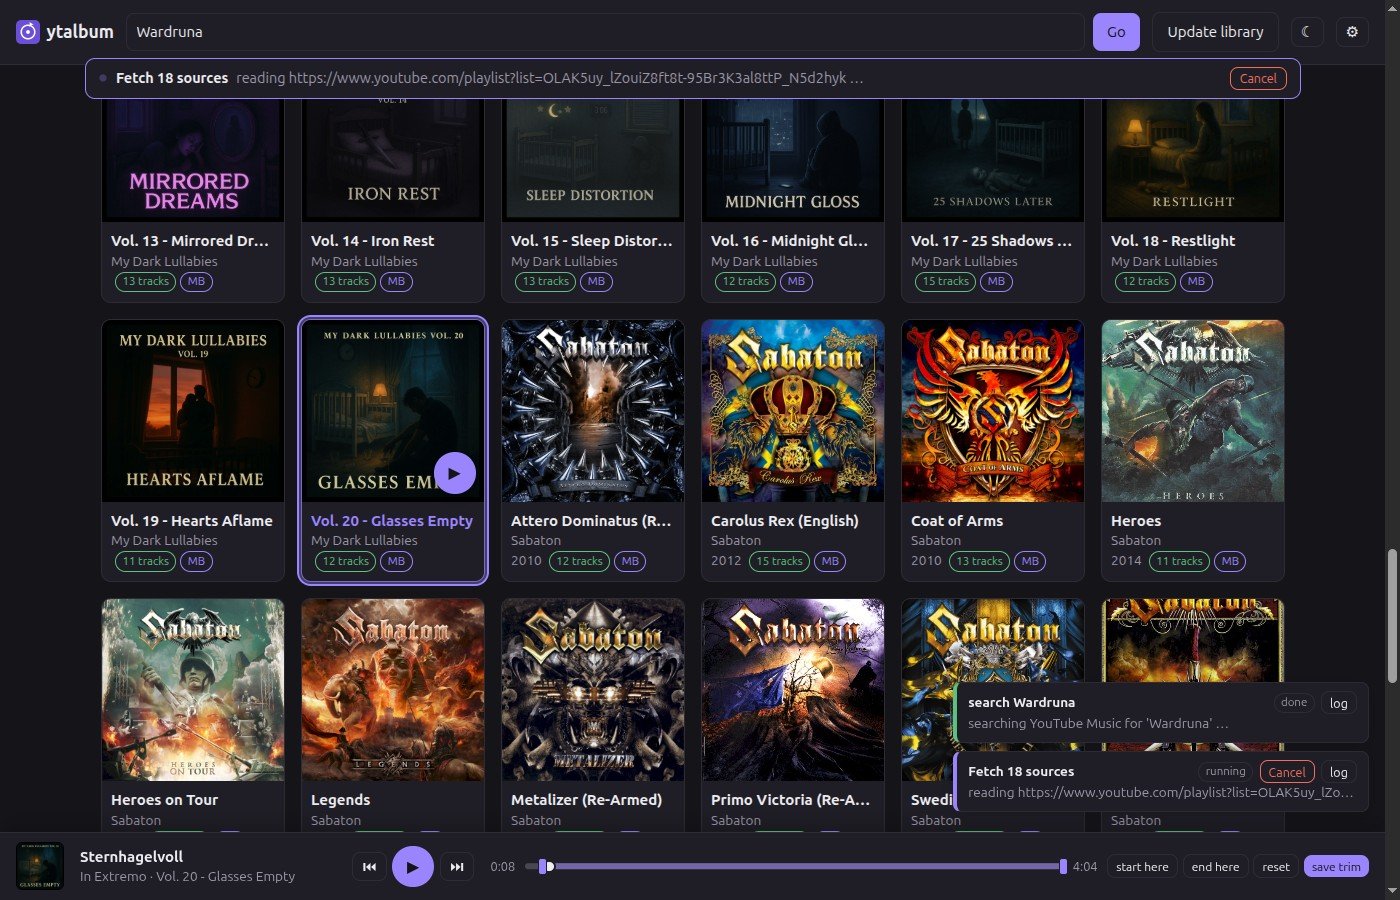
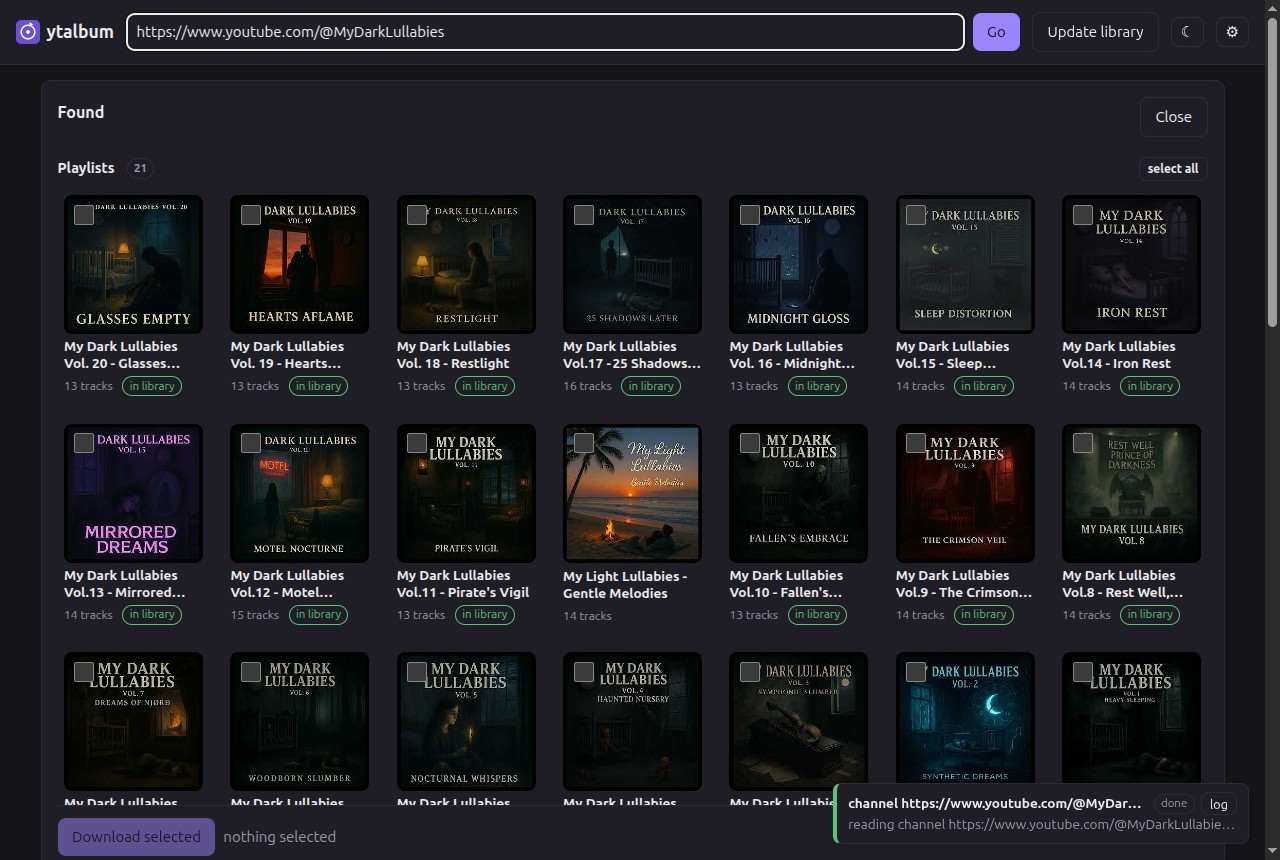
Screenshots show the compilation case only
All four were re-taken on the curator's playlists instead of whole artist
discographies. settings.jpg now actually shows the settings panel — it showed
the library with a running job and contradicted its own caption.

diff --git a/README.md b/README.md
@@ -85,10 +85,10 @@ idle minutes.
 
 | | |
 |---|---|
-| ![Album view](docs/screenshots/album.jpg) | ![Search results](docs/screenshots/search.jpg) |
-| **Album view:** cover, editable fields, where each value came from, trim points, per-track delete — and the player with trim handles on its position bar. | **Search:** albums, singles, channel playlists and other playlists, with track counts filled in afterwards and "in library" markers. |
+| ![Album view](docs/screenshots/album.jpg) | ![Channel listing](docs/screenshots/search.jpg) |
+| **Album view:** cover, editable fields, where each value came from, trim points and per-track delete. A compilation keeps one artist per track; playing a track adds a position bar with trim handles. | **A URL or an artist name:** here a curator's channel — every playlist it publishes, track counts filled in afterwards, "in library" markers, tick what you want. |
 | ![Settings](docs/screenshots/settings.jpg) | ![Library](docs/screenshots/library.jpg) |
-| **Settings:** library folder, YouTube login, MusicBrainz, token helper, parallel requests. | **Library:** covers, progress, MusicBrainz badge; click an artist to see only their albums. |
+| **Settings:** library folder, YouTube login, MusicBrainz, token helper, parallel requests — and what it found: config file, JS runtime, token generator. | **Library, filtered to one artist:** covers, track counts, MusicBrainz badge, and "check for new albums" for that artist alone. |
 
 ## How it works
 
